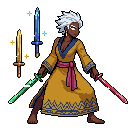
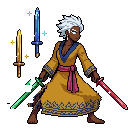
Deepen Riley preview crouch with joint mesh and rigid swords

Changed region(s): [[0.0625, 0.0625, 1.0, 0.875]]

diff --git a/website/public/riley-fighting-idle-preview.html b/website/public/riley-fighting-idle-preview.html
@@ -1,1 +1,1 @@
-<!doctype html><html lang="en"><head><meta charset="utf-8"><meta name="viewport" content="width=device-width,initial-scale=1"><title>Riley · Controlled fighting idle preview</title><style>*{box-sizing:border-box}body{margin:0;background:#151b27;color:#e2e8f0;font:16px/1.6 system-ui}main{max-width:1000px;margin:auto;padding:24px}h1{line-height:1.2}a{color:#81e6d9}.grid{display:grid;grid-template-columns:repeat(auto-fit,minmax(min(100%,300px),1fr));gap:18px}section{border:1px solid #465368;border-radius:12px;padding:16px}img{display:block;width:384px;max-width:100%;margin:auto;image-rendering:pixelated;background:repeating-conic-gradient(#293348 0% 25%,#222c3d 0% 50%) 0/20px 20px}.native img{width:128px}button{font:inherit;background:#243f49;color:#e2e8f0;border:1px solid #648b96;border-radius:8px;padding:8px 14px;cursor:pointer;margin:4px}.note{border-left:3px solid #e7bb78;padding:10px 16px}h2{font-size:19px}</style></head><body><main id="hud-root"><p>RILEY · PREVIEW ONLY · NOT INSTALLED</p><h1>Fighting idle · Candidate 3 artwork</h1><p class="note">A controlled 16-frame motion study using the approved master: feet stay planted, hips settle into a shallow bend, the robe follows, floating swords hover, and glints pulse on all four blades. No AI generation was run. Live Riley is unchanged.</p><p>The knees are covered by the approved robe; their flex is suggested by the lowering hips and widening lower silhouette, not newly drawn exposed knees. This preview is for your judgment, not marked approved.</p><div><button id="play">Pause</button><button id="step">Next frame</button><button id="size">Show native size</button><span id="frame"></span></div><div class="grid" id="views"><section><h2>Approved candidate 3 · Original</h2><img src="./art/riley-approved-master.png" alt="Approved original candidate 3"></section><section><h2>Fighting idle · Motion study</h2><img id="animated" alt="Riley controlled fighting idle"></section></div><p id="status">Loading frames…</p><p><a href="./">Return to unchanged game</a></p></main><script>let frame=0,playing=true,ticks=0,native=false;const frames=[];function draw(){document.getElementById('animated').src=frames[frame].src;document.getElementById('frame').textContent=`Frame ${frame+1} / 16`;}Promise.all(Array.from({length:16},(_,i)=>new Promise((resolve,reject)=>{const img=new Image();img.onload=()=>{frames[i]=img;resolve()};img.onerror=reject;img.src=`./previews/riley/fighting-idle/frame_${String(i).padStart(2,'0')}.png`;}))).then(()=>{draw();document.getElementById('status').textContent='All 16 frames loaded · 1.6-second loop';setInterval(()=>{if(playing){frame=(frame+1)%16;ticks++;draw()}},100)}).catch(()=>document.getElementById('status').textContent='Frame loading failed');document.getElementById('play').onclick=()=>{playing=!playing;document.getElementById('play').textContent=playing?'Pause':'Play'};document.getElementById('step').onclick=()=>{playing=false;document.getElementById('play').textContent='Play';frame=(frame+1)%16;draw()};document.getElementById('size').onclick=()=>{native=!native;document.getElementById('views').classList.toggle('native',native);document.getElementById('size').textContent=native?'Enlarge sprites':'Show native size'};window.playtest=()=>({stage:'controlled-fighting-idle-preview',frame,playing,ticks,framesLoaded:frames.filter(Boolean).length,generationCalls:0,liveRileyChanged:false,images:[...document.images].map(i=>({loaded:i.complete&&i.naturalWidth===128,width:i.naturalWidth}))});</script></body></html>
+<!doctype html><html lang="en"><head><meta charset="utf-8"><meta name="viewport" content="width=device-width,initial-scale=1"><title>Riley · Controlled fighting idle preview</title><style>*{box-sizing:border-box}body{margin:0;background:#151b27;color:#e2e8f0;font:16px/1.6 system-ui}main{max-width:1000px;margin:auto;padding:24px}h1{line-height:1.2}a{color:#81e6d9}.grid{display:grid;grid-template-columns:repeat(auto-fit,minmax(min(100%,300px),1fr));gap:18px}section{border:1px solid #465368;border-radius:12px;padding:16px}img{display:block;width:384px;max-width:100%;margin:auto;image-rendering:pixelated;background:repeating-conic-gradient(#293348 0% 25%,#222c3d 0% 50%) 0/20px 20px}.native img{width:128px}button{font:inherit;background:#243f49;color:#e2e8f0;border:1px solid #648b96;border-radius:8px;padding:8px 14px;cursor:pointer;margin:4px}.note{border-left:3px solid #e7bb78;padding:10px 16px}h2{font-size:19px}</style></head><body><main id="hud-root"><p>RILEY · PREVIEW ONLY · NOT INSTALLED</p><h1>Fighting idle · Candidate 3 artwork</h1><p class="note">A controlled 16-frame motion study using the approved master: feet stay planted, hips drop seven pixels as the knees move outward and shins angle back toward fixed ankles, the robe follows, floating swords hover, and glints pulse on all four blades. No AI generation was run. Live Riley is unchanged.</p><p>The revised lower body uses joint-based deformation: knees move outward up to seven pixels while the feet stay fixed. The approved robe still covers much of the legs; this does not invent exposed knees or replace her outfit. This preview is for your judgment, not marked approved.</p><div><button id="play">Pause</button><button id="step">Next frame</button><button id="size">Show native size</button><span id="frame"></span></div><div class="grid" id="views"><section><h2>Approved candidate 3 · Original</h2><img src="./art/riley-approved-master.png" alt="Approved original candidate 3"></section><section><h2>Fighting idle · Motion study</h2><img id="animated" alt="Riley controlled fighting idle"></section></div><p id="status">Loading frames…</p><p><a href="./">Return to unchanged game</a></p></main><script>let frame=0,playing=true,ticks=0,native=false;const frames=[];function draw(){document.getElementById('animated').src=frames[frame].src;document.getElementById('frame').textContent=`Frame ${frame+1} / 16`;}Promise.all(Array.from({length:16},(_,i)=>new Promise((resolve,reject)=>{const img=new Image();img.onload=()=>{frames[i]=img;resolve()};img.onerror=reject;img.src=`./previews/riley/fighting-idle/frame_${String(i).padStart(2,'0')}.png`;}))).then(()=>{draw();document.getElementById('status').textContent='All 16 frames loaded · 1.6-second loop';setInterval(()=>{if(playing){frame=(frame+1)%16;ticks++;draw()}},100)}).catch(()=>document.getElementById('status').textContent='Frame loading failed');document.getElementById('play').onclick=()=>{playing=!playing;document.getElementById('play').textContent=playing?'Pause':'Play'};document.getElementById('step').onclick=()=>{playing=false;document.getElementById('play').textContent='Play';frame=(frame+1)%16;draw()};document.getElementById('size').onclick=()=>{native=!native;document.getElementById('views').classList.toggle('native',native);document.getElementById('size').textContent=native?'Enlarge sprites':'Show native size'};window.playtest=()=>({stage:'controlled-fighting-idle-preview',frame,playing,ticks,framesLoaded:frames.filter(Boolean).length,generationCalls:0,liveRileyChanged:false,images:[...document.images].map(i=>({loaded:i.complete&&i.naturalWidth===128,width:i.naturalWidth}))});</script></body></html>

diff --git a/scripts/riley_fighting_idle_preview.py b/scripts/riley_fighting_idle_preview.py
@@ -11,22 +11,55 @@ floatmask=Image.new('L',im.size); d=ImageDraw.Draw(floatmask)
 d.polygon([(0,0),(48,0),(48,35),(43,57),(33,62),(29,84),(0,84)],fill=255)
 floating=Image.new('RGBA',im.size); floating.paste(im,(0,0),floatmask)
 body=im.copy(); body.paste((0,0,0,0),(0,0),floatmask)
+# Piecewise-affine joint mesh: upper body follows the hips, knees travel
+# outward, shins pivot back toward fixed ankles. Unlike a row translation,
+# each triangle changes angle and the lower-body silhouette articulates.
+xs=[0,18,30,42,56,68,82,94,108,127]
+ys=[0,60,73,84,94,103,110,118,127]
+vertices=[(x,y) for y in ys for x in xs]
+triangles=[]
+for row in range(len(ys)-1):
+    for col in range(len(xs)-1):
+        a=row*len(xs)+col; b=a+1; c=a+len(xs); e=c+1
+        triangles.extend([(a,b,c),(b,e,c)])
+def pose_point(x,y,bend):
+    if y<=73: return (x+1*bend,y+7*bend)
+    # Knee excursion is greatest at y=94; ankles and feet are frozen.
+    amounts={73:(0,7),84:(3,6),94:(7,3),103:(3,1),110:(0,0),118:(0,0),127:(0,0)}
+    lo=max(k for k in amounts if k<=y);hi=min(k for k in amounts if k>=y)
+    t=0 if lo==hi else (y-lo)/(hi-lo)
+    spread=amounts[lo][0]*(1-t)+amounts[hi][0]*t
+    sink=amounts[lo][1]*(1-t)+amounts[hi][1]*t
+    lateral=max(-1,min(1,(x-61)/22))
+    return (x+spread*lateral*bend,y+sink*bend)
+def articulate(bend):
+    result=Image.new('RGBA',im.size)
+    dst=[pose_point(x,y,bend) for x,y in vertices]
+    for indices in triangles:
+        a,b,c=[dst[k] for k in indices]
+        sa,sb,sc=[vertices[k] for k in indices]
+        det=(b[1]-c[1])*(a[0]-c[0])+(c[0]-b[0])*(a[1]-c[1])
+        for y in range(max(0,math.floor(min(a[1],b[1],c[1]))),min(h,math.ceil(max(a[1],b[1],c[1]))+1)):
+            for x in range(max(0,math.floor(min(a[0],b[0],c[0]))),min(w,math.ceil(max(a[0],b[0],c[0]))+1)):
+                u=((b[1]-c[1])*(x-c[0])+(c[0]-b[0])*(y-c[1]))/det
+                v=((c[1]-a[1])*(x-c[0])+(a[0]-c[0])*(y-c[1]))/det
+                z=1-u-v
+                if min(u,v,z)>=-0.00001:
+                    sx=round(u*sa[0]+v*sb[0]+z*sc[0]);sy=round(u*sa[1]+v*sb[1]+z*sc[1])
+                    if 0<=sx<w and 0<=sy<h: result.putpixel((x,y),body.getpixel((sx,sy)))
+    return result
+# Keep the held blades rigid: knee mesh must never bend sword silhouettes.
+heldmask=Image.new('L',im.size); hd=ImageDraw.Draw(heldmask)
+hd.polygon([(0,63),(40,63),(43,80),(36,101),(0,101)],fill=255)
+hd.polygon([(97,59),(127,59),(127,104),(105,104),(94,84)],fill=255)
+held=Image.new('RGBA',im.size);held.paste(body,(0,0),heldmask)
+body.paste((0,0,0,0),(0,0),heldmask)
 frames=[]
 for i in range(16):
     t=i/16*math.tau
     bend=(1-math.cos(t))/2
-    # Feet anchored at their original rows. Hips sink and concealed knees widen.
-    frame=Image.new('RGBA',im.size)
-    for y in range(h):
-        for x in range(w):
-            if y < 73: dy=round(3*bend); dx=0
-            else:
-                dy=round(3*bend*max(0,(118-y)/45))
-                knee=math.exp(-((y-99)/12)**2)
-                dx=round((1 if x>68 else -1)*1.5*bend*knee)
-            # Inverse nearest-neighbour mapping keeps a crisp pixel grid.
-            sx=x-dx; sy=y-dy
-            if 0<=sx<w and 0<=sy<h: frame.putpixel((x,y),body.getpixel((sx,sy)))
+    frame=articulate(bend)
+    frame.alpha_composite(held,(round(bend),round(7*bend)))
     # The floating pair hover independently; held blades remain attached to hands.
     frame.alpha_composite(floating,(0,round(math.sin(t)*1)))
     spark=ImageDraw.Draw(frame)
@@ -35,7 +68,9 @@ for i in range(16):
     for k,(x,y,c) in enumerate(sites):
         phase=(i+k*4)%16
         if phase<5:
-            yy=y+(round(math.sin(t)) if k<2 else round(3*bend))
+            if k<2: yy=y+round(math.sin(t))
+            else:
+                x+=round(bend);yy=y+round(7*bend)
             r=2 if phase in (1,2) else 1
             spark.line((x-r,yy,x+r,yy),fill=(*c,255))
             spark.line((x,yy-r,x,yy+r),fill=(*c,255))
